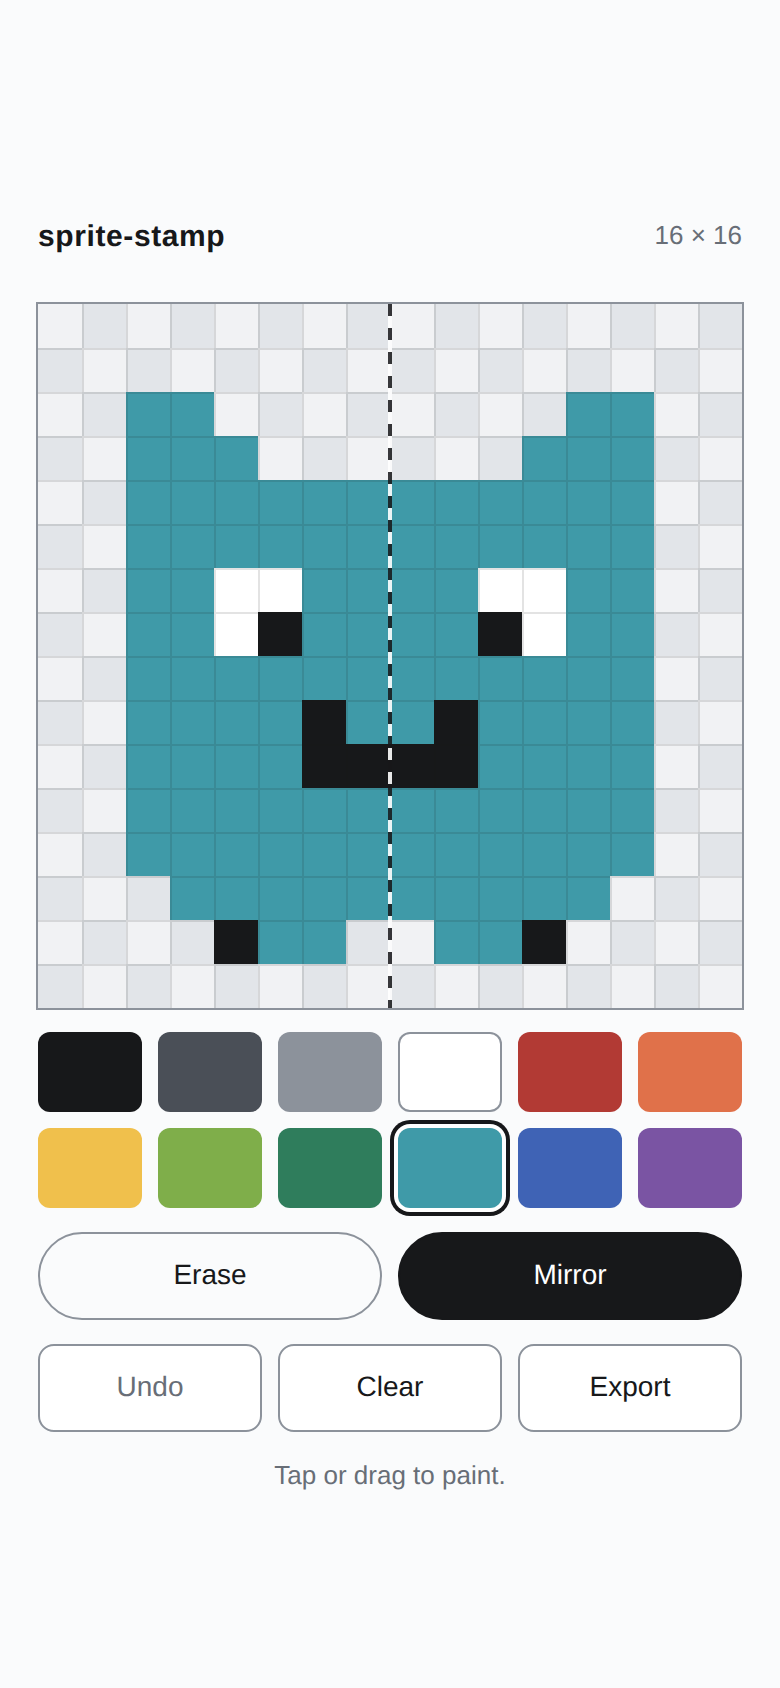
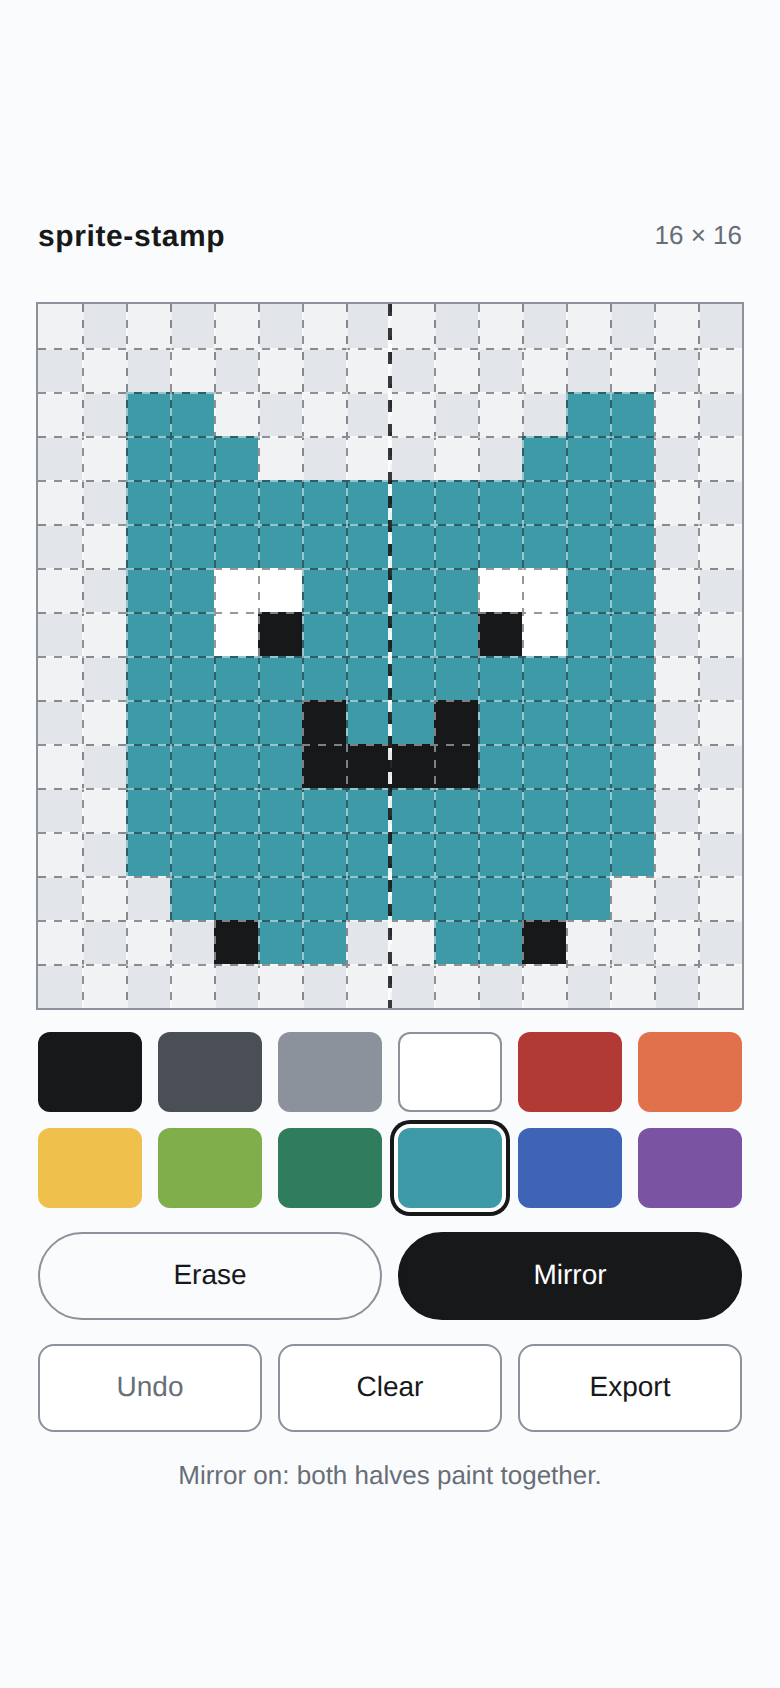
revert the two-tone grid: the hairline is meant to vanish over dark pixels

diff --git a/index.html b/index.html
@@ -405,27 +405,23 @@
       }
     }
 
-    /* One ink hairline vanishes over the dark half of the palette — over black
-       it measured 1.00:1, no line at all — and one white hairline vanishes over
-       the light half. So the grid is stroked twice in alternating dashes, the
-       trick the mirror axis already uses: whichever pass the fill swallows, the
-       other one reads. Still one pixel wide, so it stays quiet. */
+    /* A quiet ink hairline. It measures 1.00:1 over black — i.e. it disappears
+       — and that is the specified behaviour, not a defect: adjacent dark cells
+       are meant to merge into one shape. A cycle-3 review proposed the mirror
+       axis's two-tone dash trick here to force 3:1 over every fill; it worked
+       (1.00–1.28 → 2.17–4.49) and was reverted anyway, because it turns the
+       board into a lattice and chops the sprite into 256 labelled boxes. The
+       axis needs to read over any colour because it is an explanation; the
+       grid does not, because it is scaffolding. */
     ctx.lineWidth = 1;
-    ctx.setLineDash([4, 4]);
+    ctx.strokeStyle = 'rgba(23,24,26,0.12)';
     ctx.beginPath();
     for (var i = 1; i < GRID; i++) {
       var p = i * c + 0.5;
       ctx.moveTo(p, 0); ctx.lineTo(p, size);
       ctx.moveTo(0, p); ctx.lineTo(size, p);
     }
-    ctx.lineDashOffset = 0;
-    ctx.strokeStyle = 'rgba(23,24,26,0.45)';
     ctx.stroke();
-    ctx.lineDashOffset = 4;
-    ctx.strokeStyle = 'rgba(255,255,255,0.45)';
-    ctx.stroke();
-    ctx.setLineDash([]);
-    ctx.lineDashOffset = 0;
 
     if (state.mirror) {
       /* Alternating light/dark dashes, so the axis reads over any colour. */
